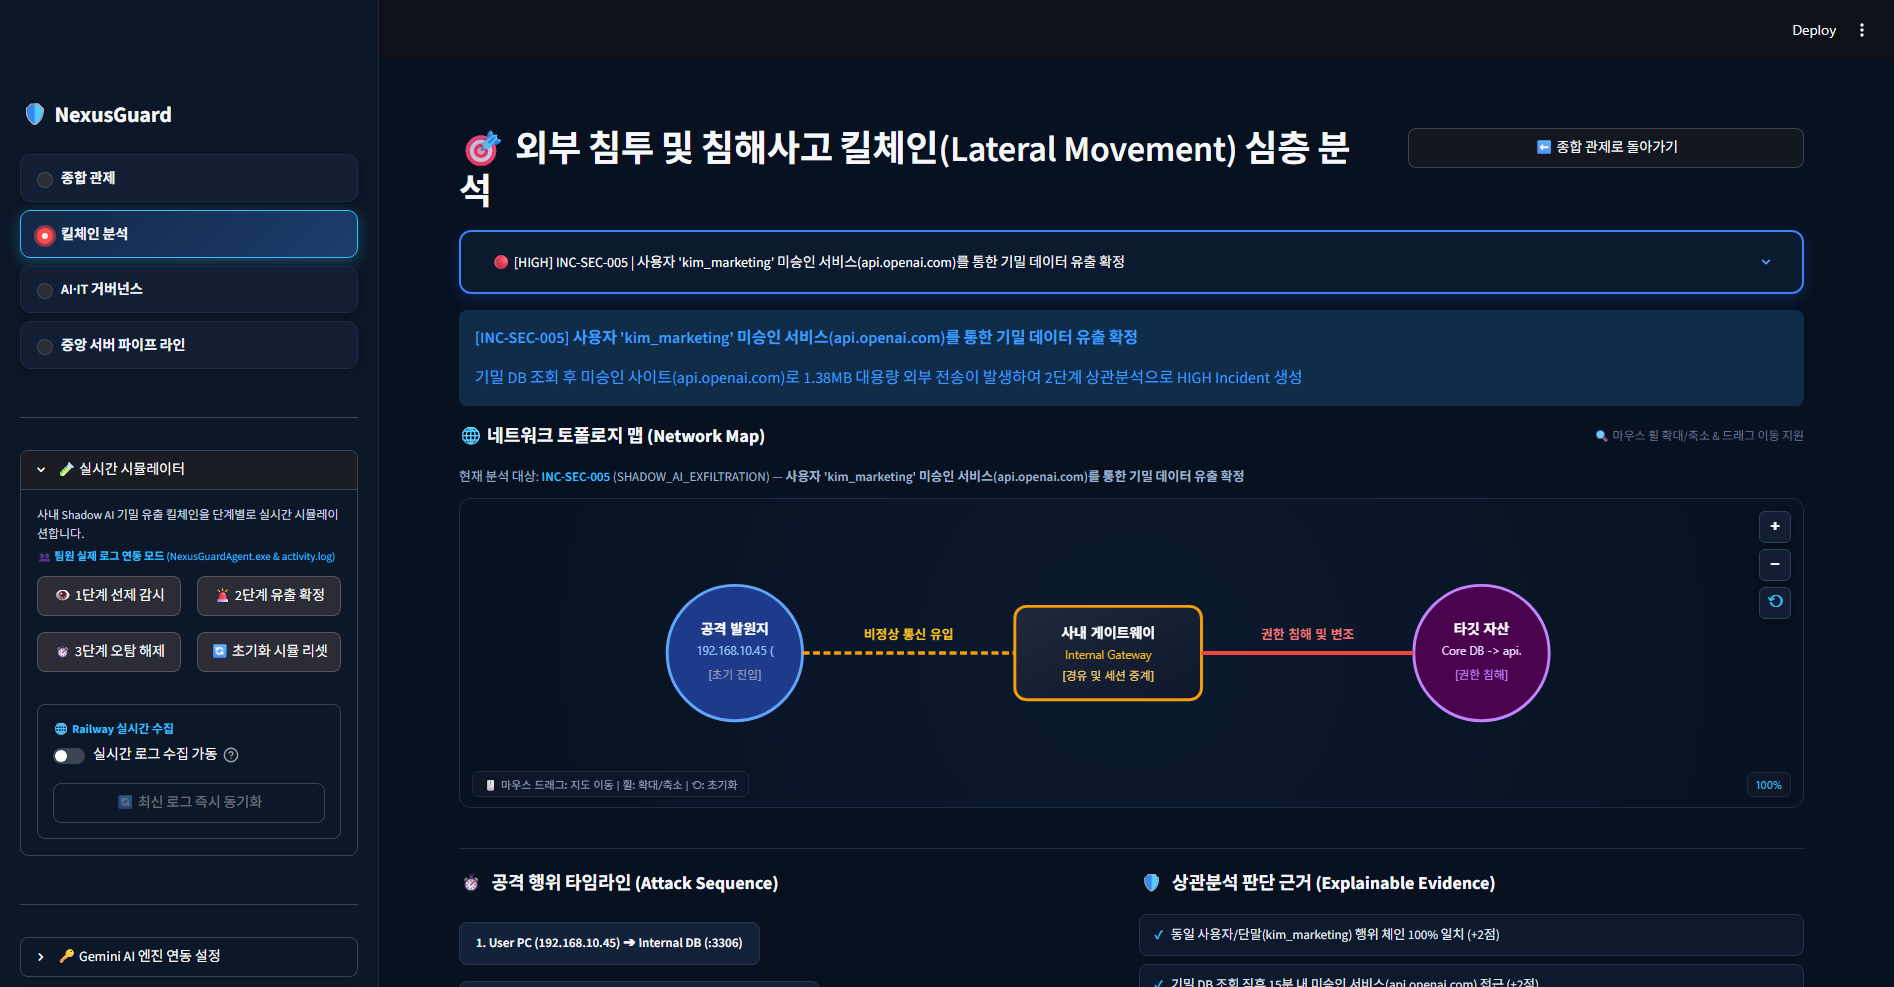
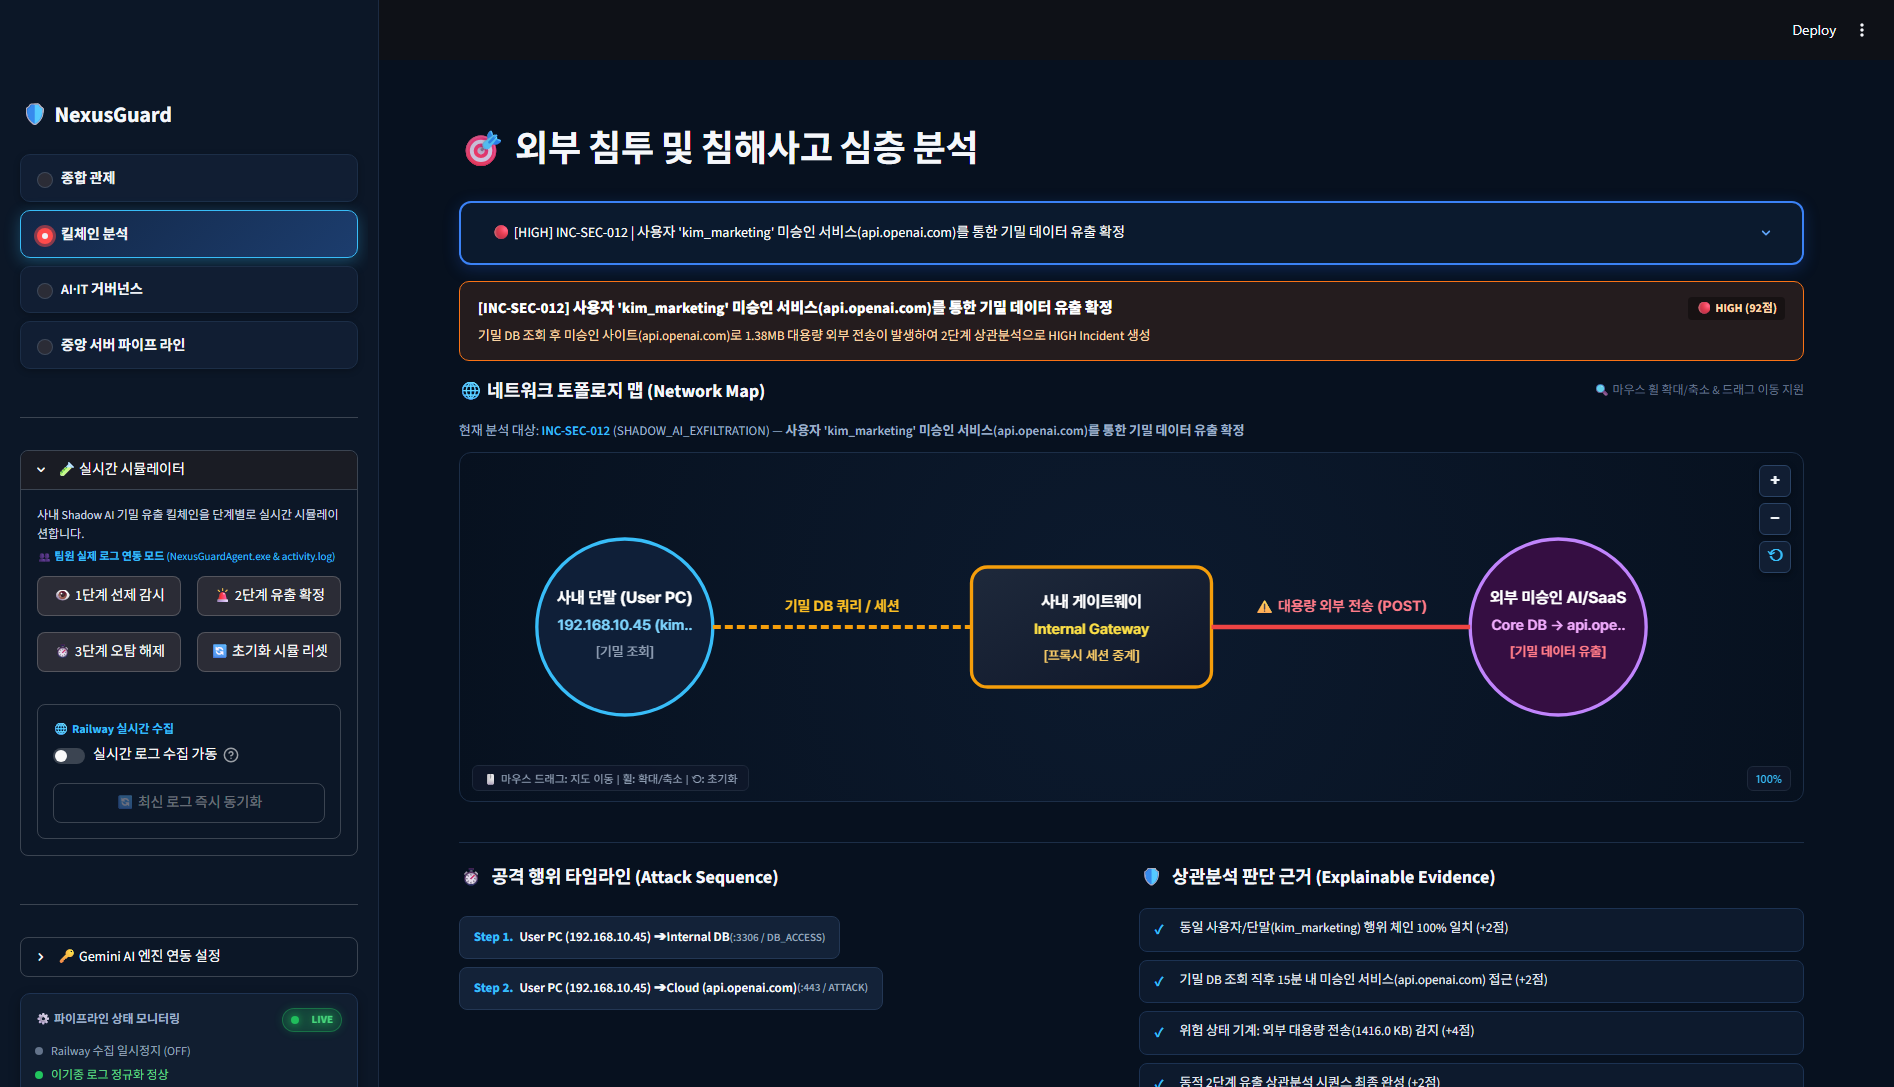
style(ui): streamline deep analysis title, dynamic severity theme, high-res topology, and bottom back button

diff --git a/nexusguard/ui/app.py b/nexusguard/ui/app.py
@@ -530,8 +530,9 @@ st.markdown("""
         font-weight: 700 !important;
     }
 
-    /* 🌟 킬체인 심층 분석 바로가기 액션 버튼 스타일 */
-    div[class*="st-key-btn_jump_kc"] button {
+    /* 🌟 킬체인 심층 분석 바로가기 & 종합 관제 돌아가기 공통 액션 버튼 스타일 */
+    div[class*="st-key-btn_jump_kc"] button,
+    div[class*="st-key-btn_back_overview"] button {
         min-height: 52px !important;
         height: 52px !important;
         padding: 12px 18px !important;
@@ -544,10 +545,45 @@ st.markdown("""
         box-shadow: 0 4px 12px rgba(0, 0, 0, 0.35) !important;
         transition: all 0.2s ease-in-out !important;
     }
-    div[class*="st-key-btn_jump_kc"] button:hover {
+    div[class*="st-key-btn_jump_kc"] button:hover,
+    div[class*="st-key-btn_back_overview"] button:hover {
         transform: translateY(-2px) !important;
         border-color: #38bdf8 !important;
         box-shadow: 0 6px 18px rgba(56, 189, 248, 0.35) !important;
+    }
+
+    /* 🌟 인시던트 위험도별 설명 박스 테마 */
+    .inc-summary-critical {
+        background: rgba(239, 68, 68, 0.12) !important;
+        border: 1.5px solid #ef4444 !important;
+        border-radius: 10px !important;
+        padding: 14px 18px !important;
+        margin-bottom: 16px !important;
+        color: #fecaca !important;
+    }
+    .inc-summary-high {
+        background: rgba(249, 115, 22, 0.12) !important;
+        border: 1.5px solid #f97316 !important;
+        border-radius: 10px !important;
+        padding: 14px 18px !important;
+        margin-bottom: 16px !important;
+        color: #fed7aa !important;
+    }
+    .inc-summary-medium {
+        background: rgba(245, 158, 11, 0.12) !important;
+        border: 1.5px solid #f59e0b !important;
+        border-radius: 10px !important;
+        padding: 14px 18px !important;
+        margin-bottom: 16px !important;
+        color: #fef08a !important;
+    }
+    .inc-summary-low {
+        background: rgba(16, 185, 129, 0.12) !important;
+        border: 1.5px solid #10b981 !important;
+        border-radius: 10px !important;
+        padding: 14px 18px !important;
+        margin-bottom: 16px !important;
+        color: #a7f3d0 !important;
     }
 
     /* 🌟 사이드바 파이프라인 실시간 모니터링 애니메이션 (Live Radar & Pulsing) */
@@ -1342,35 +1378,69 @@ def generate_dynamic_network_svg(inc: Incident) -> str:
         </svg>
         """
 
-    # 11. 일반 / 기타 인시던트 (Generic Fallback)
+    # 11. 일반 / 기타 인시던트 (Generic Fallback - 섀도우 AI 유출 vs 외부 침투 분기)
     else:
+        is_shadow_ai = "SHADOW_AI" in str(inc.category.value).upper() or "OPENAI" in str(inc.target_asset).lower() or "유출" in str(inc.title)
+        
+        # 텍스트 안전 포맷팅 (글자 짤림 방지)
+        actor_clean = str(inc.actor).strip()
+        if len(actor_clean) > 20:
+            actor_display = actor_clean[:18] + ".."
+        else:
+            actor_display = actor_clean
+
+        target_clean = str(inc.target_asset).strip()
+        if len(target_clean) > 20:
+            target_display = target_clean[:18] + ".."
+        else:
+            target_display = target_clean
+
+        if is_shadow_ai:
+            node1_title = "사내 단말 (User PC)"
+            node1_sub = "[기밀 조회]"
+            node2_title = "사내 게이트웨이"
+            node2_sub = "[프록시 세션 중계]"
+            node3_title = "외부 미승인 AI/SaaS"
+            node3_sub = "[기밀 데이터 유출]"
+            edge1_label = "기밀 DB 쿼리 / 세션"
+            edge2_label = "⚠ 대용량 외부 전송 (POST)"
+        else:
+            node1_title = "공격 발원지"
+            node1_sub = "[초기 진입]"
+            node2_title = "사내 게이트웨이"
+            node2_sub = "[경유 및 세션 중계]"
+            node3_title = "타깃 자산"
+            node3_sub = "[권한 침해]"
+            edge1_label = "비정상 통신 유입"
+            edge2_label = "⚠ 권한 침해 및 변조"
+
         return f"""
-        <svg width="100%" height="240" viewBox="0 0 900 240" xmlns="http://www.w3.org/2000/svg">
+        <svg width="100%" height="240" viewBox="0 0 1000 240" xmlns="http://www.w3.org/2000/svg" shape-rendering="geometricPrecision" text-rendering="geometricPrecision" style="font-family:-apple-system,BlinkMacSystemFont,'Pretendard','Segoe UI',Roboto,sans-serif;">
             {svg_defs}
             <!-- Node 1: Actor -->
-            <circle cx="110" cy="120" r="58" fill="#1e3a8a" stroke="#60a5fa" stroke-width="2.5"/>
-            <text x="110" y="104" fill="#ffffff" font-size="12" font-weight="bold" text-anchor="middle">공격 발원지</text>
-            <text x="110" y="122" fill="#93c5fd" font-size="10" text-anchor="middle">{inc.actor[:15]}</text>
-            <text x="110" y="142" fill="#94a3b8" font-size="10" text-anchor="middle">[초기 진입]</text>
+            <circle cx="120" cy="120" r="66" fill="#0f1f38" stroke="#38bdf8" stroke-width="2.5"/>
+            <text x="120" y="102" fill="#ffffff" font-size="12" font-weight="bold" text-anchor="middle">{node1_title}</text>
+            <text x="120" y="122" fill="#7dd3fc" font-size="11" font-weight="600" text-anchor="middle">{actor_display}</text>
+            <text x="120" y="142" fill="#94a3b8" font-size="10" text-anchor="middle">{node1_sub}</text>
 
             <!-- Node 2: Gateway / Proxy -->
-            <rect x="350" y="80" width="160" height="80" rx="10" fill="url(#grad-node)" stroke="#f59e0b" stroke-width="2.5"/>
-            <text x="430" y="107" fill="#ffffff" font-size="12" font-weight="bold" text-anchor="middle">사내 게이트웨이</text>
-            <text x="430" y="125" fill="#fbbf24" font-size="10" text-anchor="middle">Internal Gateway</text>
-            <text x="430" y="143" fill="#ffd169" font-size="10" text-anchor="middle">[경유 및 세션 중계]</text>
+            <rect x="380" y="75" width="180" height="90" rx="12" fill="url(#grad-node)" stroke="#f59e0b" stroke-width="2.5"/>
+            <text x="470" y="105" fill="#ffffff" font-size="12" font-weight="bold" text-anchor="middle">{node2_title}</text>
+            <text x="470" y="125" fill="#fde047" font-size="11" font-weight="600" text-anchor="middle">Internal Gateway</text>
+            <text x="470" y="145" fill="#ffd169" font-size="10" text-anchor="middle">{node2_sub}</text>
 
             <!-- Node 3: Target Asset -->
-            <circle cx="750" cy="120" r="58" fill="#4a044e" stroke="#c084fc" stroke-width="2.5"/>
-            <text x="750" y="104" fill="#ffffff" font-size="12" font-weight="bold" text-anchor="middle">타깃 자산</text>
-            <text x="750" y="122" fill="#e9d5ff" font-size="10" text-anchor="middle">{inc.target_asset[:15]}</text>
-            <text x="750" y="142" fill="#c084fc" font-size="10" text-anchor="middle">[권한 침해]</text>
+            <circle cx="820" cy="120" r="66" fill="#350e42" stroke="#c084fc" stroke-width="2.5"/>
+            <text x="820" y="102" fill="#ffffff" font-size="12" font-weight="bold" text-anchor="middle">{node3_title}</text>
+            <text x="820" y="122" fill="#f0abfc" font-size="11" font-weight="600" text-anchor="middle">{target_display}</text>
+            <text x="820" y="142" fill="#ff7b88" font-size="10" font-weight="bold" text-anchor="middle">{node3_sub}</text>
 
             <!-- Connectors -->
-            <line x1="168" y1="120" x2="350" y2="120" stroke="#f59e0b" stroke-width="3" stroke-dasharray="6,3"/>
-            <text x="259" y="108" fill="#fbbf24" font-size="11" font-weight="bold" text-anchor="middle">비정상 통신 유입</text>
+            <line x1="186" y1="120" x2="380" y2="120" stroke="#f59e0b" stroke-width="3" stroke-dasharray="6,3"/>
+            <text x="283" y="108" fill="#fbbf24" font-size="11" font-weight="bold" text-anchor="middle">{edge1_label}</text>
 
-            <line x1="510" y1="120" x2="692" y2="120" stroke="#ef4444" stroke-width="3.5"/>
-            <text x="601" y="108" fill="#f87171" font-size="11" font-weight="bold" text-anchor="middle">권한 침해 및 변조</text>
+            <line x1="560" y1="120" x2="754" y2="120" stroke="#ef4444" stroke-width="3.5"/>
+            <text x="657" y="108" fill="#ff7b88" font-size="11" font-weight="bold" text-anchor="middle">{edge2_label}</text>
         </svg>
         """
 
@@ -1479,8 +1549,11 @@ def render_interactive_map(svg_markup: str):
         svg {{
             width: 100%;
             height: 100%;
-            max-height: 280px;
+            max-height: 320px;
             display: block;
+            shape-rendering: geometricPrecision;
+            text-rendering: geometricPrecision;
+            image-rendering: -webkit-optimize-contrast;
         }}
     </style>
     </head>
@@ -1603,7 +1676,7 @@ def render_interactive_map(svg_markup: str):
     </body>
     </html>
     """
-    components.html(map_html, height=310)
+    components.html(map_html, height=350)
 
 
 if menu == "종합 관제":
@@ -1876,17 +1949,7 @@ if menu == "종합 관제":
 # VIEW 2: 킬체인 분석 (Lateral Movement)
 # ==========================================
 elif menu == "킬체인 분석":
-    top_col1, top_col2 = st.columns([7, 3])
-    with top_col1:
-        st.markdown("<h2>🎯 외부 침투 및 침해사고 킬체인(Lateral Movement) 심층 분석</h2>", unsafe_allow_html=True)
-    with top_col2:
-        st.markdown("<div style='margin-top: 10px;'></div>", unsafe_allow_html=True)
-        st.button(
-            "⬅ 종합 관제로 돌아가기",
-            on_click=navigate_to,
-            args=("종합 관제",),
-            use_container_width=True
-        )
+    st.markdown("<h2 style='white-space:nowrap; margin-bottom:14px;'>🎯 외부 침투 및 침해사고 심층 분석</h2>", unsafe_allow_html=True)
 
     incident_ids = [inc.incident_id for inc in incidents]
     curr_target_id = st.session_state.get("selected_incident_id", incidents[0].incident_id)
@@ -1920,7 +1983,36 @@ elif menu == "킬체인 분석":
 
     target_inc = ctx.correlation_engine.get_incident(st.session_state.selected_incident_id)
 
-    st.info(f"**[{target_inc.incident_id}] {target_inc.title}**\n\n{target_inc.summary}")
+    # 🌟 인시던트 위험도에 따른 동적 설명창 테마
+    summary_class = {
+        Severity.CRITICAL: "inc-summary-critical",
+        Severity.HIGH: "inc-summary-high",
+        Severity.MEDIUM: "inc-summary-medium",
+        Severity.LOW: "inc-summary-low"
+    }.get(target_inc.severity, "inc-summary-high")
+
+    badge_label = {
+        Severity.CRITICAL: "🔴 CRITICAL",
+        Severity.HIGH: "🔴 HIGH",
+        Severity.MEDIUM: "🟡 WATCH",
+        Severity.LOW: "🟢 NORMAL"
+    }.get(target_inc.severity, "⚪ UNKNOWN")
+
+    st.markdown(f"""
+    <div class="{summary_class}">
+        <div style="display:flex; justify-content:space-between; align-items:center; margin-bottom:6px;">
+            <span style="font-size:15px; font-weight:800; color:#ffffff;">
+                [{target_inc.incident_id}] {target_inc.title}
+            </span>
+            <span style="font-size:12px; font-weight:700; padding:2px 8px; border-radius:4px; background:rgba(0,0,0,0.35);">
+                {badge_label} ({target_inc.score}점)
+            </span>
+        </div>
+        <div style="font-size:13px; line-height:1.5;">
+            {target_inc.summary}
+        </div>
+    </div>
+    """, unsafe_allow_html=True)
 
     # 🌐 침해사고 네트워크 토폴로지 맵
     map_title = f"""
@@ -1935,7 +2027,7 @@ elif menu == "킬체인 분석":
     raw_svg = generate_dynamic_network_svg(target_inc)
     render_interactive_map(raw_svg)
 
-    # 🔍 인시던트 상세 타임라인 & 상관분석 판단 근거 & Zero Trust 대응
+    # 🔍 인시던트 상세 타임라인 & 상관분석 판단 근거 (불필요한 노이즈 정보 삭제 및 핵심 위주 정돈)
     st.markdown("<hr style='border:none; border-top:1.5px solid #1c2e47; margin:24px 0 20px 0;'>", unsafe_allow_html=True)
     
     col_left, col_right = st.columns([1, 1])
@@ -1943,80 +2035,48 @@ elif menu == "킬체인 분석":
     with col_left:
         st.markdown(f"""
         <div class="box-title">
-            {tooltip("⏱", "공격 시퀀스 순서", "공격자가 내부망에 침투하여 목적을 달성하기까지의 행위 순서입니다.")} 공격 행위 타임라인 (Attack Sequence)
+            {tooltip("⏱", "공격 시퀀스 순서", "공격자 또는 내부 유출자가 시스템에 접근하여 목적을 달성하기까지의 행위 순서입니다.")} 공격 행위 타임라인 (Attack Sequence)
         </div>
         """, unsafe_allow_html=True)
-        # 홉(Hop) 기반 타임라인 자동 생성
-        steps_html_parts = []
-        for idx, h in enumerate(target_inc.network_hops):
-            steps_html_parts.append(f'<span class="timeline-step">{idx+1}. {h.from_node} ➔ {h.to_node} (:{h.port})</span>')
-        steps_html = f'<div style="margin-top:8px; margin-bottom:20px; display:flex; flex-wrap:wrap; gap:8px;">{" ".join(steps_html_parts)}</div>'
-        st.markdown(steps_html, unsafe_allow_html=True)
 
-        st.markdown(f'<div class="box-title">📍 재구성된 네트워크 홉(Hop) 명세 ({target_inc.incident_id})</div>', unsafe_allow_html=True)
         if target_inc.network_hops:
-            hops_data = []
-            for h in target_inc.network_hops:
-                hops_data.append({
-                    "출발지(From)": h.from_node,
-                    "목적지(To)": h.to_node,
-                    "포트": h.port,
-                    "유형": h.hop_type.upper()
-                })
-            st.table(pd.DataFrame(hops_data))
+            steps_html_parts = []
+            for idx, h in enumerate(target_inc.network_hops):
+                steps_html_parts.append(f'<div class="timeline-step" style="padding:10px 14px; margin-bottom:8px; border-radius:8px; font-size:13px; font-weight:600;"><span style="color:#38bdf8; font-weight:800; margin-right:6px;">Step {idx+1}.</span> {h.from_node} ➔ <b style="color:#f8fafc;">{h.to_node}</b> <span style="color:#94a3b8; font-size:11px;">(:{h.port} / {h.hop_type.upper()})</span></div>')
+            st.markdown(f'<div style="margin-top:8px;">{" ".join(steps_html_parts)}</div>', unsafe_allow_html=True)
         else:
             st.markdown(f"""
-            <div style="background:#0d1a2b; border:1px solid #1c2e47; border-radius:8px; padding:14px; color:#94a3b8; font-size:13px;">
-                단일 호스트 내부 공격 및 데이터 유출 시퀀스 감지<br>
-                • 공격 발원: <b style="color:#f87171;">{target_inc.actor}</b><br>
-                • 타깃 자산: <b style="color:#38bdf8;">{target_inc.target_asset}</b>
+            <div style="background:#0d1a2b; border:1px solid #1c2e47; border-radius:8px; padding:16px; color:#cbd5e1; font-size:13px; margin-top:8px;">
+                <div style="font-weight:700; color:#38bdf8; margin-bottom:6px;">단일 호스트 내부 공격 및 데이터 유출 시퀀스</div>
+                • <b>발원 계정/단말:</b> <code style="color:#f87171; background:#07111e; padding:2px 6px; border-radius:4px;">{target_inc.actor}</code><br>
+                • <b>타깃 기밀 자산:</b> <code style="color:#38bdf8; background:#07111e; padding:2px 6px; border-radius:4px;">{target_inc.target_asset}</code>
             </div>
             """, unsafe_allow_html=True)
 
     with col_right:
         st.markdown(f"""
         <div class="box-title">
-            {tooltip("🛡", "상관분석 판단 근거", "서로 다른 이기종 로그를 단일 공격으로 결합한 수학적/규칙적 판단 근거입니다.")} 상관분석 판단 근거 (Explainable Evidence)
+            {tooltip("🛡", "상관분석 판단 근거", "서로 다른 이기종 로그를 교차 분석하여 침해사고로 판정한 핵심 엔진 근거입니다.")} 상관분석 판단 근거 (Explainable Evidence)
         </div>
         """, unsafe_allow_html=True)
         for ev in target_inc.evidences:
             st.markdown(f"""
-            <div class="evidence-item">
-                <span style="color:#38bdf8; font-weight:700;">✓</span>
-                <span>{ev}</span>
+            <div class="evidence-item" style="padding:10px 14px; margin-bottom:8px; border-radius:8px; font-size:13px;">
+                <span style="color:#38bdf8; font-weight:800; margin-right:8px; font-size:14px;">✓</span>
+                <span style="color:#e2e8f0; line-height:1.4;">{ev}</span>
             </div>
             """, unsafe_allow_html=True)
 
-        st.markdown(f"""
-        <div class="box-title" style="margin-top:20px;">
-            {tooltip("🔒", "Zero Trust 대응", "침해 의심 단말 및 타깃 자산에 대한 단계별 자동화 방어 조치 내역입니다.")} Zero Trust 대응 조치 및 격리 상태
-        </div>
-        """, unsafe_allow_html=True)
-        st.markdown(f"""
-        <div class="zt-action-card">
-            <div class="zt-action-badge">1</div>
-            <div>
-                <b style="color:#38bdf8;">발원지/단말 제어:</b>
-                <code style="color:#4ade80; background:#07111e; padding:2px 6px; border-radius:4px; font-size:12px;">{target_inc.actor}</code>
-                관련 활성 세션 강제 만료 및 EDR 격리 대기
-            </div>
-        </div>
-        <div class="zt-action-card">
-            <div class="zt-action-badge">2</div>
-            <div>
-                <b style="color:#38bdf8;">타깃 자산 보호:</b>
-                <code style="color:#38bdf8; background:#07111e; padding:2px 6px; border-radius:4px; font-size:12px;">{target_inc.target_asset}</code>
-                대상 접근 정책 긴급 강화 및 Direct 접근 차단
-            </div>
-        </div>
-        <div class="zt-action-card">
-            <div class="zt-action-badge">3</div>
-            <div>
-                <b style="color:#38bdf8;">포렌식 아티팩트 보존:</b>
-                해당 호스트 메모리 덤프 및 Syslog 스냅샷 생성 완료
-            </div>
-        </div>
-        """, unsafe_allow_html=True)
+    # ⬅ 종합 관제로 돌아가기 (화면 맨 밑단 배치, btn_jump_kc와 동일한 버튼 스타일)
+    st.markdown("<div style='margin-top: 28px;'></div>", unsafe_allow_html=True)
+    st.button(
+        "⬅ 종합 관제로 돌아가기",
+        key="btn_back_overview",
+        on_click=navigate_to,
+        args=("종합 관제",),
+        use_container_width=True,
+        help="종합 관제 메인 대시보드 화면으로 즉시 복귀합니다."
+    )
 
 
 # VIEW 3: AI·IT 거버넌스 (Shadow IT/AI)
